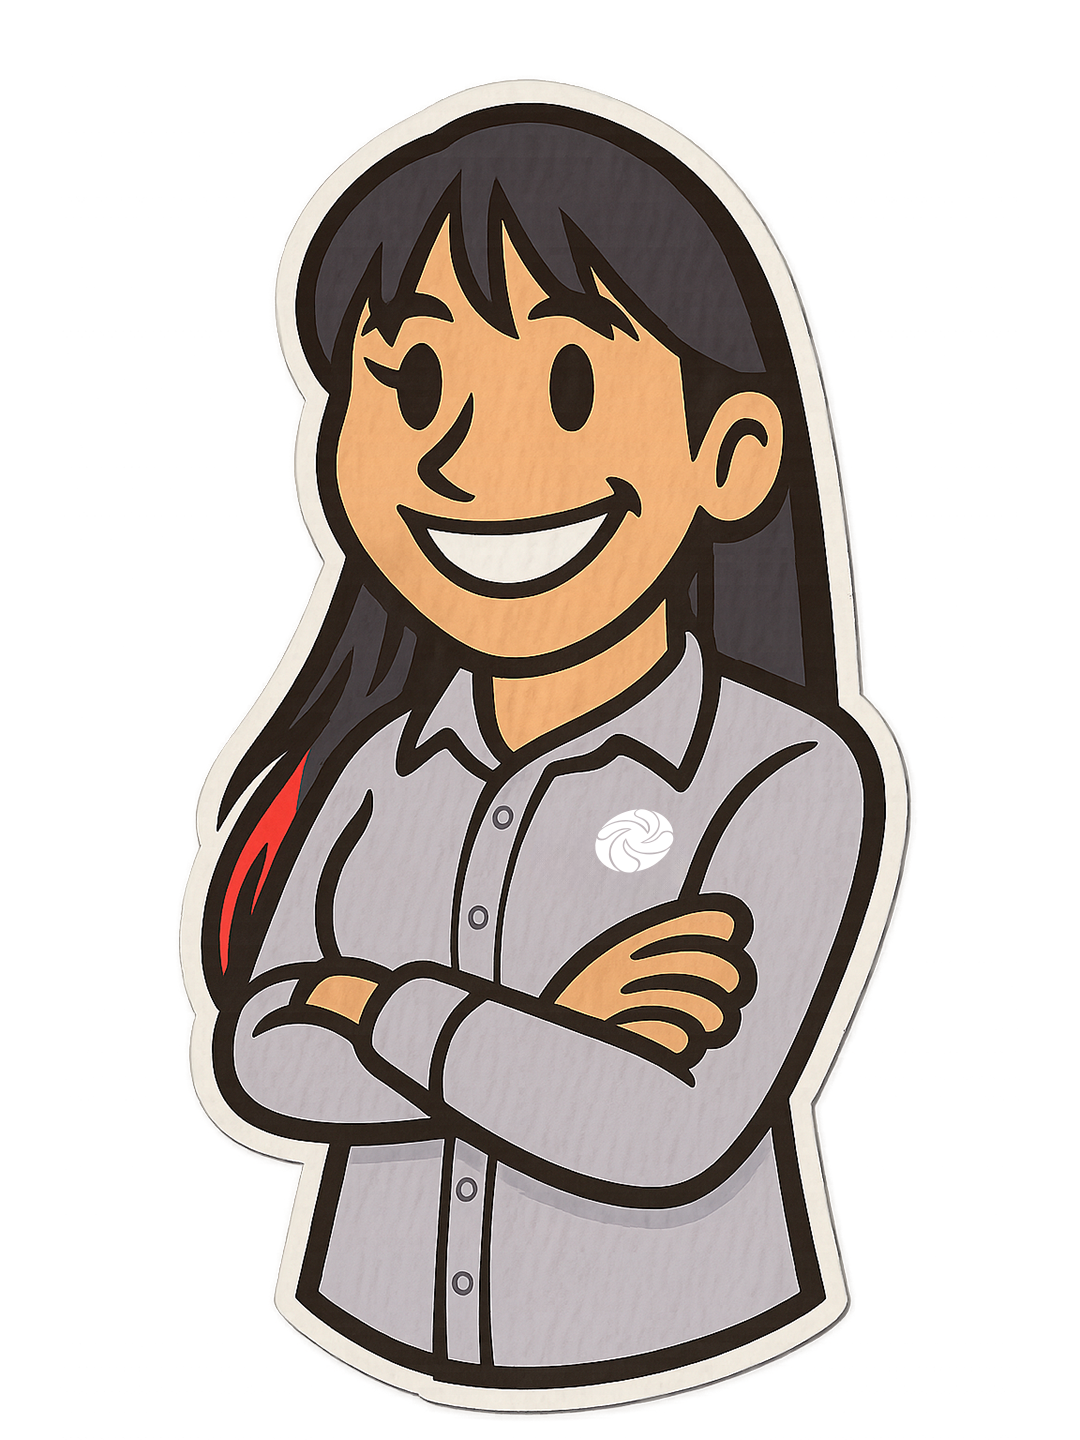
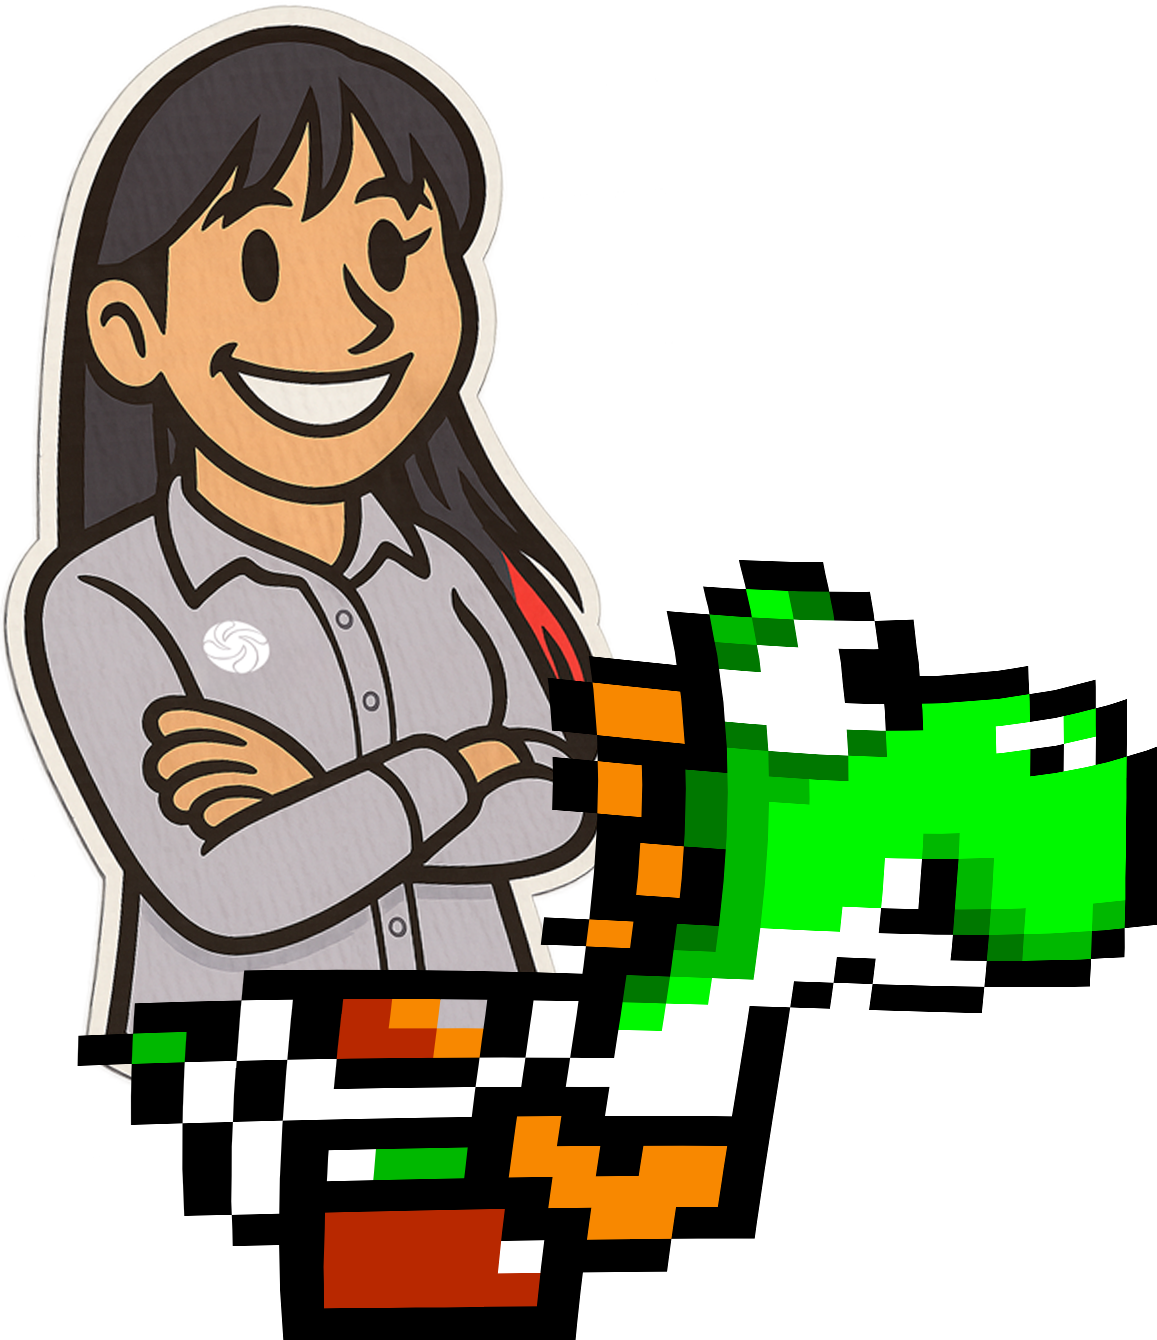
feat: added new images

diff --git a/app/page.tsx b/app/page.tsx
@@ -90,7 +90,7 @@ export default function Ranking() {
         }, duration * 1000);
         return {
           id,
-          top: 20 + Math.random() * 60,
+          top: Math.random() * 50,
           direction,
           duration,
         };
@@ -190,12 +190,13 @@ export default function Ranking() {
       {/* Container para as imagens dos personagens */}
       <div
         style={{
-          position: "absolute",
+          position: "fixed",
           bottom: 0,
           left: 0,
-          width: "100%",
-          height: "150px",
+          width: "100vw",
+          height: "clamp(80px, 15vh, 180px)",
           zIndex: 3,
+          pointerEvents: "none",
         }}
       >
         {players.map((player, index) =>
@@ -206,15 +207,19 @@ export default function Ranking() {
               alt={player.nick_consultor}
               className="character-image"
               style={{
-                position: 'absolute',
-                left: `${player.percentual}%`,
-                bottom: "60px",
-                transform: 'translateX(-50%)',
+                position: "absolute",
+                left: `calc(${player.percentual}% - 40px)`, // Mantém a lógica dinâmica aqui
+                maxHeight: "100%",
+                width: "auto",
+                objectFit: "contain",
                 animationDelay: `${index * 0.3}s`,
+                pointerEvents: "auto"
               }}
             />
           ) : null
         )}
+        <img src="/Trofeu.png" alt="imagem de trofeu" className="character-trofeu"/>
+        <img src="/celio.png" alt="imagem do celiao" className="character-celio"/>
       </div>
     </div>
   );

diff --git a/app/globals.css b/app/globals.css
@@ -124,7 +124,7 @@ body {
   }
   to {
     /* Estado final: na posição original e visível */
-    transform: translateX(0);
+    transform: translateX(0) scaleX(1);
     opacity: 1;
   }
 }
@@ -135,12 +135,32 @@ body {
   height: clamp(100px, 10vh, 120px);
   width: auto;
   opacity: 0; /* Começa invisível por padrão */
-
+  bottom: 35%;
+  z-index: 2;
   /* Define as propriedades da animação */
   animation-name: slideIn;
   animation-duration: 0.7s; /* Duração da animação */
   animation-timing-function: ease-out;
   animation-fill-mode: forwards; /* Mantém o estado final da animação */
+}
+
+.character-trofeu {
+  position: relative;
+  height: 20vh;
+  width: auto;
+  left: 170vh;
+  bottom: 5vh;
+  z-index: 2;
+}
+
+.character-celio {
+  position: relative;
+  height: 25vh;
+  width: auto;
+  right: 1%;
+  bottom: 15%;
+  z-index: 2;
+  transform: scaleX(1);
 }
 
 .player-entry {
@@ -185,7 +205,7 @@ position: absolute;
 top: 0;
 left: 0;
 width: 100%;
-height: 200px; /* Ajuste a altura conforme necessário */
+height: 100vh;
 overflow: hidden;
 pointer-events: none;
 }
